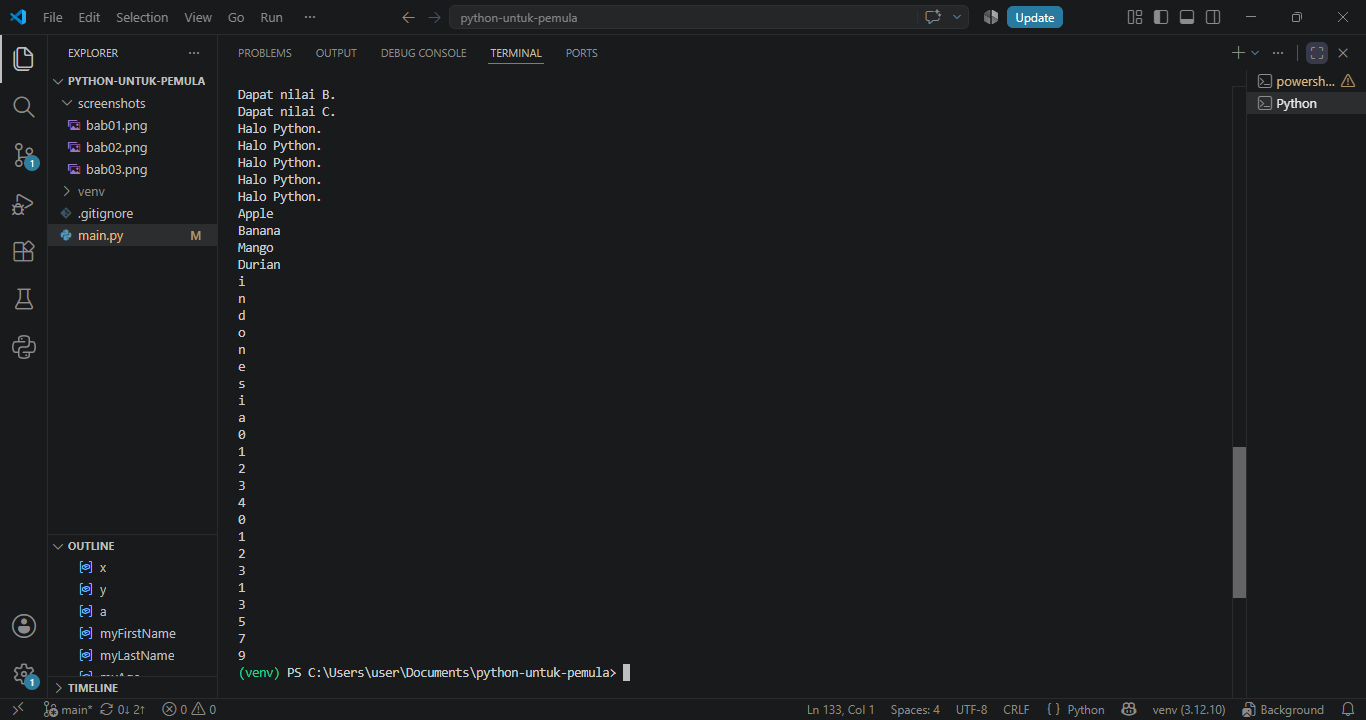
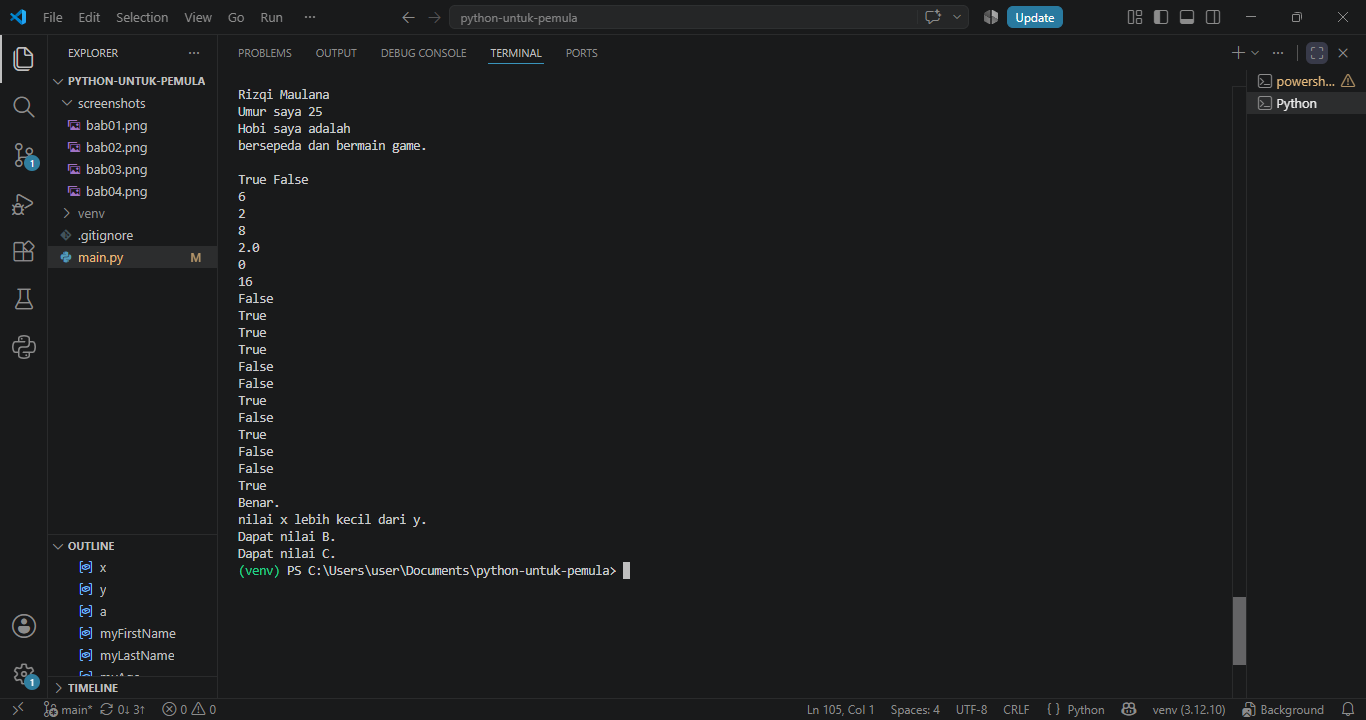
feat(dasar): add chapter 4 conditional statements
- Add note about indentation-based scope in Python

- Add if, if-elif and if-elif-else examples

- Add execution screenshot (screenshots/bab04.png)

Refs: Praktikum Python Dasar - chapter 4

diff --git a/main.py b/main.py
@@ -102,31 +102,3 @@ else:
 
 
 
-# ===== BAB 5: Perulangan =====
-for x in range(5):
-    print("Halo Python.")
-
-fruits = ['Apple', 'Banana', 'Mango', 'Durian']
-for fruit in fruits:
-    print(fruit)
-
-for x in "indonesia":
-    print(x)
-
-counter = 0
-while counter < 5:
-    print(counter)
-    counter += 1
-
-for x in range(5):          # break
-    print(x)
-    if x == 3:
-        break
-
-for x in range(10):         # continue: hanya cetak ganjil
-    if x % 2 == 0:
-        continue
-    print(x)
-
-
-
